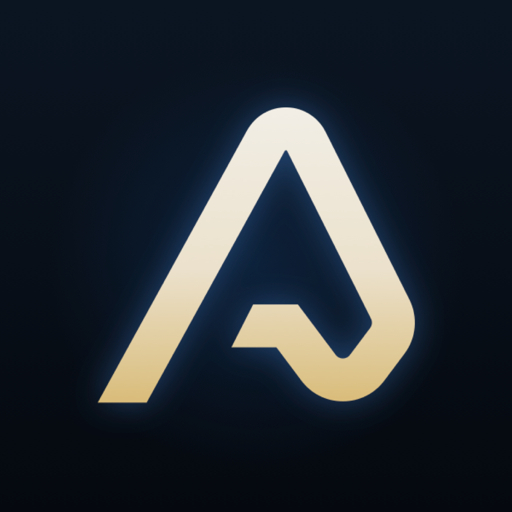
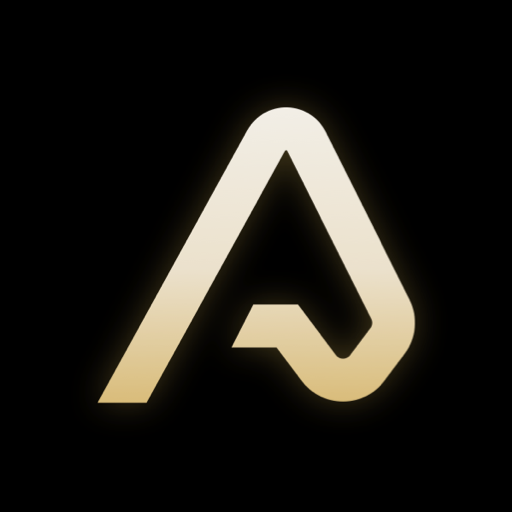
Ícono de la app con fondo negro puro (#000000), igual que la app

diff --git a/CLAUDE.md b/CLAUDE.md
@@ -846,6 +846,7 @@ Found while replacing a mistyped teammate email: removing access left the person
   - **Attach ADOR OS items to an update** — 🔗 in the Actualizaciones toolbar reuses `ItemPicker`; stored in the comment's `attachments` as `{kind:'entity', entityType, id, title, subtitle}` (Drive files have no `kind`).
   - **Plantilla de Intervención (defined with the user 2026-09-30):** trigger = automatic when a client reaches Intervención Activa (`moveClientStage` / `createClient` → `applyInterventionTemplate`), content = editable inside ADOR OS by admins (Administración → Plantilla, `settings/interventionTemplate` `{layers:{'1'..'7':[{id,title,priority}]}}`, no starter content shipped), dates = spread over the run's weeks (`layerWeekSpan`, consistent with `currentLayer`: 8 weeks → layers 1–6 one week each, layer 7 weeks 7–8; timeline start→end and due = end of the layer's span, counted from the day it starts). Tasks go to the client's responsible associate with no accept step; `templateAppliedAt` on the client is claimed first (idempotent). Existing Intervenciones get an "Aplicar plantilla" bar in Lista while they lack it. The drafted `firestore.rules` gained `taskAlerts`.
 
+- **App icon on pure black (2026-09-30):** `public/icon-512.png`, `icon-192.png`, `apple-touch-icon.png`, `favicon-32.png` and `favicon.svg` were redrawn with a `#000000` tile (was navy `#0B1522`) — the gold Λ with a faint warm glow, full-bleed (iOS/Android round it themselves), no blue halo. Regenerated from the SVG with `qlmanage -t` + `sips` (no ImageMagick/PIL on this machine). An already-installed home-screen icon keeps the old picture until it's removed and added again (iOS caches it).
 - **Not built (needs the user):** push reminders of due/overdue tasks with the app closed need a server schedule — a Cloudflare Cron Trigger plus a Firebase service-account key as a Worker secret (same prerequisite as truly punctual scheduled posts/messages, §43). The bell still shows them.
 
 ## Next recommended steps (in priority order, as discussed with the user)
